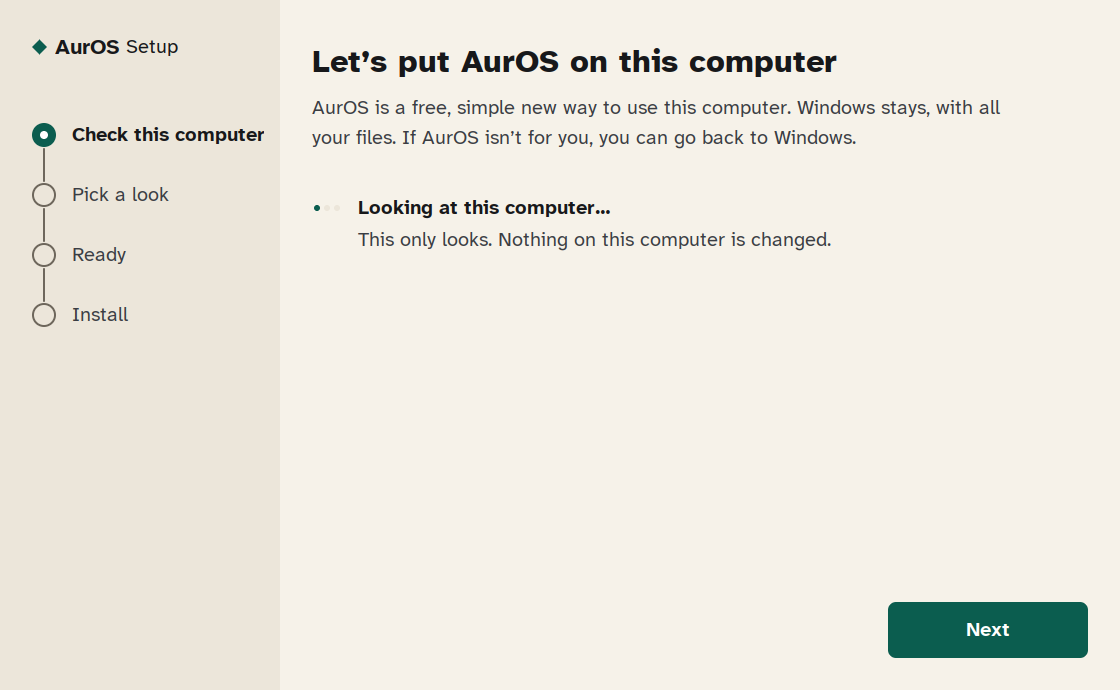
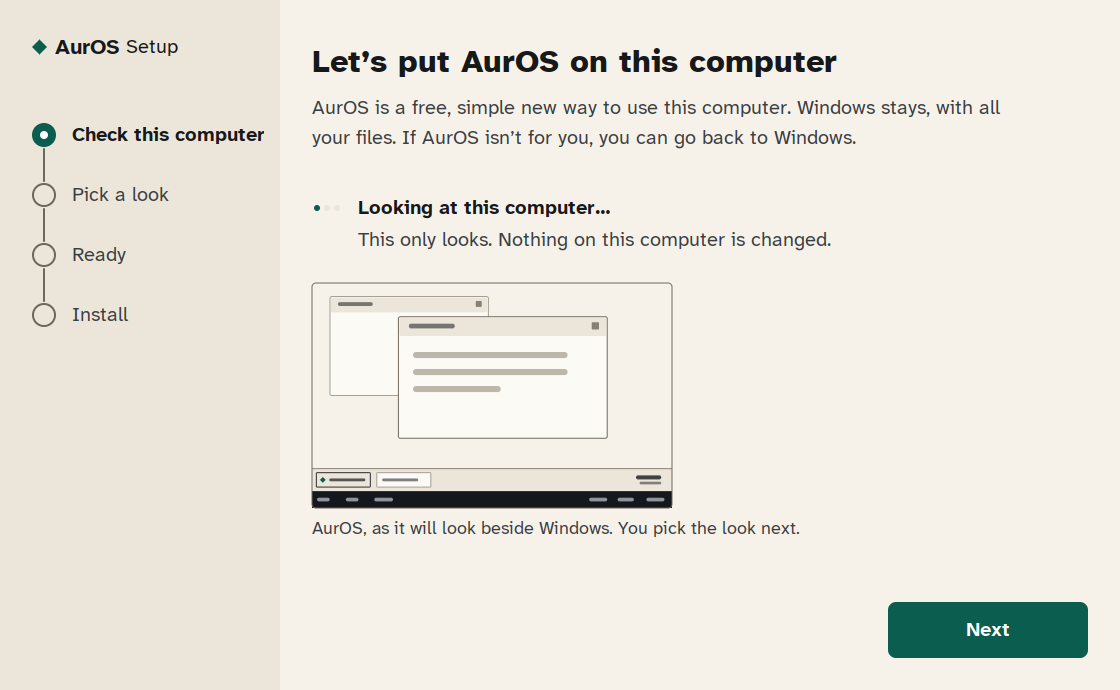
wizard: the welcome page shows what she is getting, where there is room (B-16)
A 360 px picture of the look like Windows under the check's answer, with
one line under it; left out on a short window rather than scrolled to.

diff --git a/src/aurbridge/wizard.c b/src/aurbridge/wizard.c
@@ -1942,6 +1942,8 @@ static int note_box(const wchar_t *head, const wchar_t *const *lines, int n,
     return y - y0;
 }
 
+static void style_picture(int kind, float x, float y, float w, float h);
+
 static int page_welcome(int x, int y, int w)
 {
     int y0 = y;
@@ -1979,6 +1981,25 @@ static int page_welcome(int x, int y, int w)
         }
         y += S(g_short ? 20 : 32);
         y += note_box(L"Good to know", lines, n, x, y, narrow);
+    }
+
+    /* WHAT SHE IS GETTING, a picture of it (B-16): the look like Windows, up
+     * to 360 px wide, where there is room under the rest; on a short window
+     * it is left out rather than scrolled to. The page is her first sight of
+     * the product and a picture says what a sentence cannot. */
+    {
+        int room = (g_body.bottom - g_body.top) - (y - y0) - S(16) - S(28) - S(30);
+        int ph = S(225);
+        if (ph > room) ph = room;
+        if (ph >= S(150)) {
+            int pw = ph * 16 / 10;
+            y += S(28);
+            style_picture(PIC_WINDOWS, (float)x, (float)y, (float)pw, (float)ph);
+            stroke_rr((float)x, (float)y, (float)pw, (float)ph, (float)S(4), 1.f, C_RULE, 1.f);
+            y += ph + S(8);
+            y += text_draw(L"AurOS, as it will look beside Windows. You pick the look next.",
+                           g_f_small, C_INK2, x, y, narrow, DT_SINGLELINE);
+        }
     }
     return y - y0;
 }
